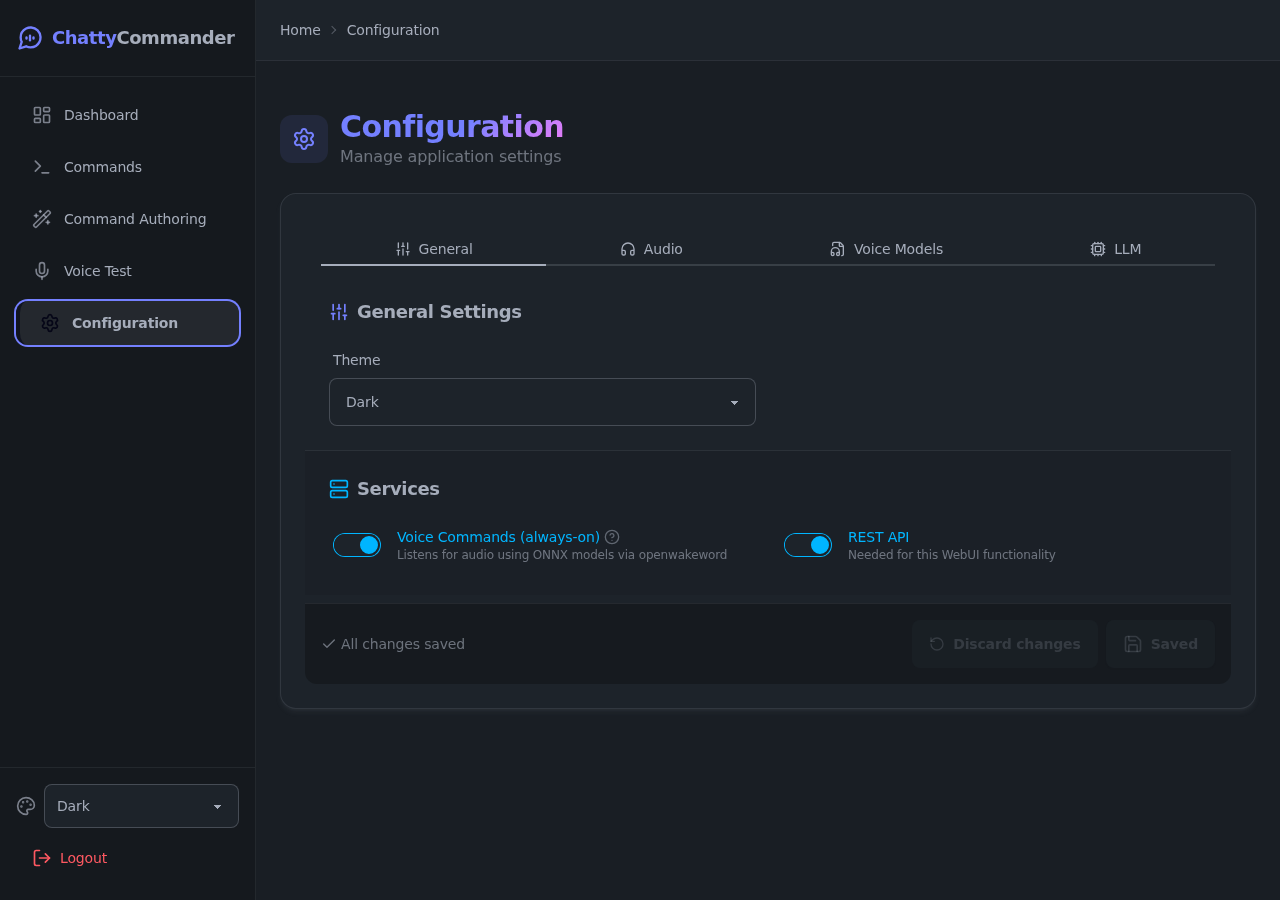
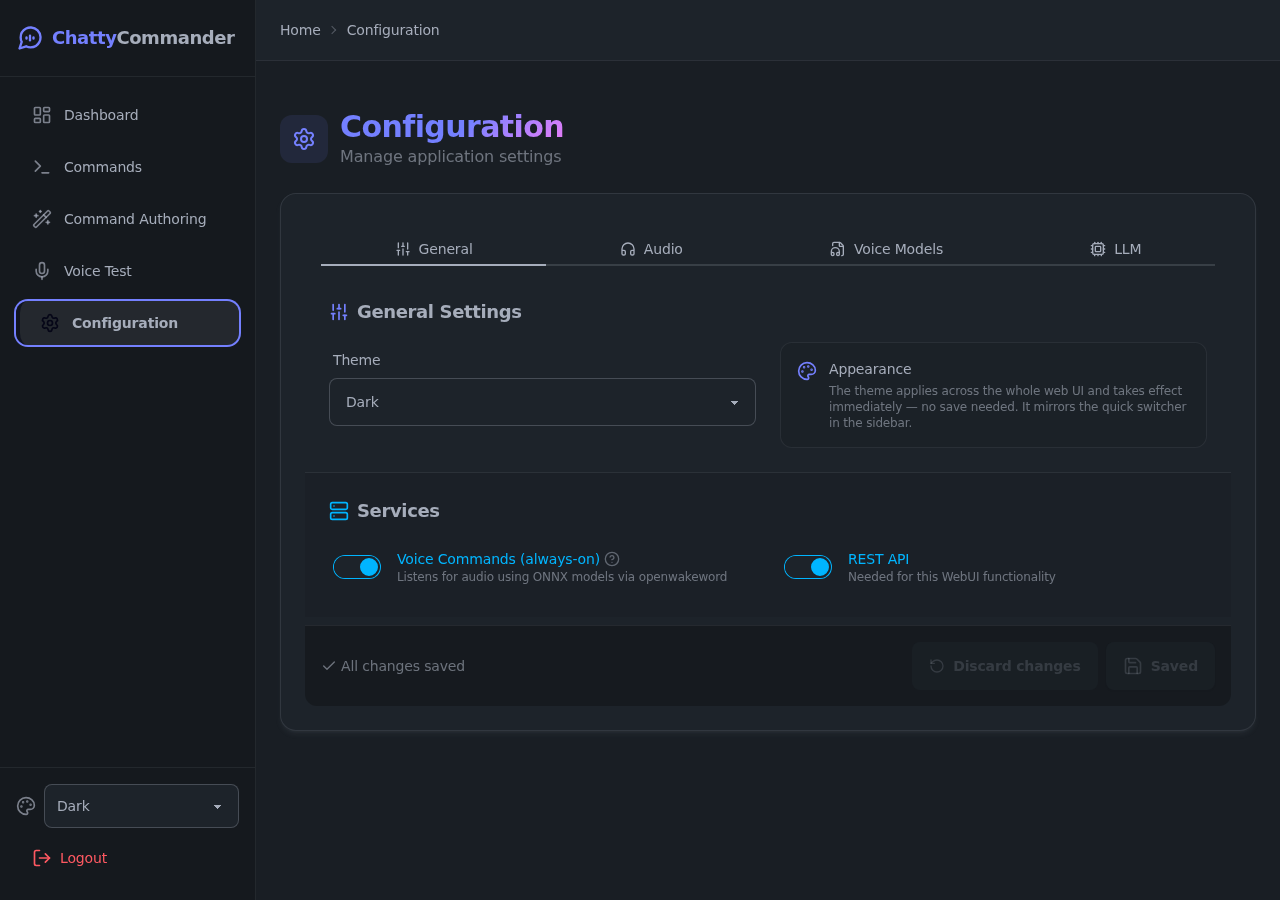
ui(config): balance the General tab + de-duplicate the tour-03 shot (#748)
UI-quality loop, iteration 10 (improving the lowest screenshot). The
Configuration General tab was the weakest screen: its "General Settings" row was
a 2-column grid holding only the Theme select, so the right half was empty and
the page read as left-abandoned (visible in configuration.png AND
tour-06-theme-emerald.png).

- Add an "Appearance" companion in that empty cell (Palette icon + a one-liner:
  the theme is global and applies immediately, mirroring the sidebar switcher).
  The row is now balanced and the note is genuinely useful.
- guided_tour tour-03 ("configuration page") was clicking into the Voice Models
  tab, making tour-03-configuration.png an exact visual duplicate of the
  dedicated configuration-voice-models.png. Capture the General tab (the default
  landing) instead, so the two guide slots differ and tour-03 actually shows the
  settings landing.

Gates: type-check + vitest (ConfigurationPage 29) + build green; configuration
e2e (36) pass; FULL e2e 141 passed / 3 skipped / 0 failed.

diff --git a/webui/frontend/src/pages/ConfigurationPage.tsx b/webui/frontend/src/pages/ConfigurationPage.tsx
@@ -19,6 +19,7 @@ import {
   HelpCircle as HelpIcon,
   AlertTriangle as AlertTriangleIcon,
   RotateCcw as RotateCcwIcon,
+  Palette as PaletteIcon,
 } from "lucide-react";
 import { fetchLLMModels, fetchVoiceModels, uploadVoiceModel, deleteVoiceModel, ModelFileInfo } from "../services/api";
 import { useTheme, AVAILABLE_THEMES } from "../components/ThemeProvider";
@@ -718,6 +719,21 @@ const ConfigurationPage: React.FC = () => {
                         </option>
                       ))}
                     </select>
+                  </div>
+
+                  {/* Companion helper so the Theme row isn't a lone left-aligned
+                      control with an empty right half — and it tells the user
+                      the pick is live + global. */}
+                  <div className="rounded-xl bg-base-200/40 border border-base-content/10 p-4 flex items-start gap-3">
+                    <PaletteIcon className="w-5 h-5 text-primary shrink-0 mt-0.5" aria-hidden="true" />
+                    <div>
+                      <p className="font-medium text-sm">Appearance</p>
+                      <p className="text-xs text-base-content/60 mt-1">
+                        The theme applies across the whole web UI and takes effect
+                        immediately — no save needed. It mirrors the quick switcher
+                        in the sidebar.
+                      </p>
+                    </div>
                   </div>
                 </div>
               </div>

diff --git a/webui/frontend/tests/e2e/guided_tour.spec.ts b/webui/frontend/tests/e2e/guided_tour.spec.ts
@@ -245,10 +245,10 @@ test.describe("Guided Tour Screenshots", () => {
     // The sticky desktop app bar renders its own page-title <h1>, so the page's
     // own <h2> heading is the second match — scope to the first visible heading.
     await expect(page.getByRole("heading", { name: /configuration/i }).first()).toBeVisible();
-    // Configuration is now tabbed; voice models live under the "Voice Models"
-    // tab. Open it so the captured page shows the loaded ONNX models.
-    await page.getByRole("tab", { name: "Voice Models" }).click();
-    await expect(page.getByText("hey_jarvis_v0.1.onnx", { exact: true })).toBeVisible();
+    // Capture the General tab (the default landing) so this "configuration page"
+    // step shows the settings landing — not the Voice Models tab, which has its
+    // own dedicated configuration-voice-models.png and made the two redundant.
+    await expect(page.getByText("General Settings", { exact: true })).toBeVisible();
     await settle(page);
 
     await page.screenshot({ path: shot("tour-03-configuration.png"), fullPage: true });